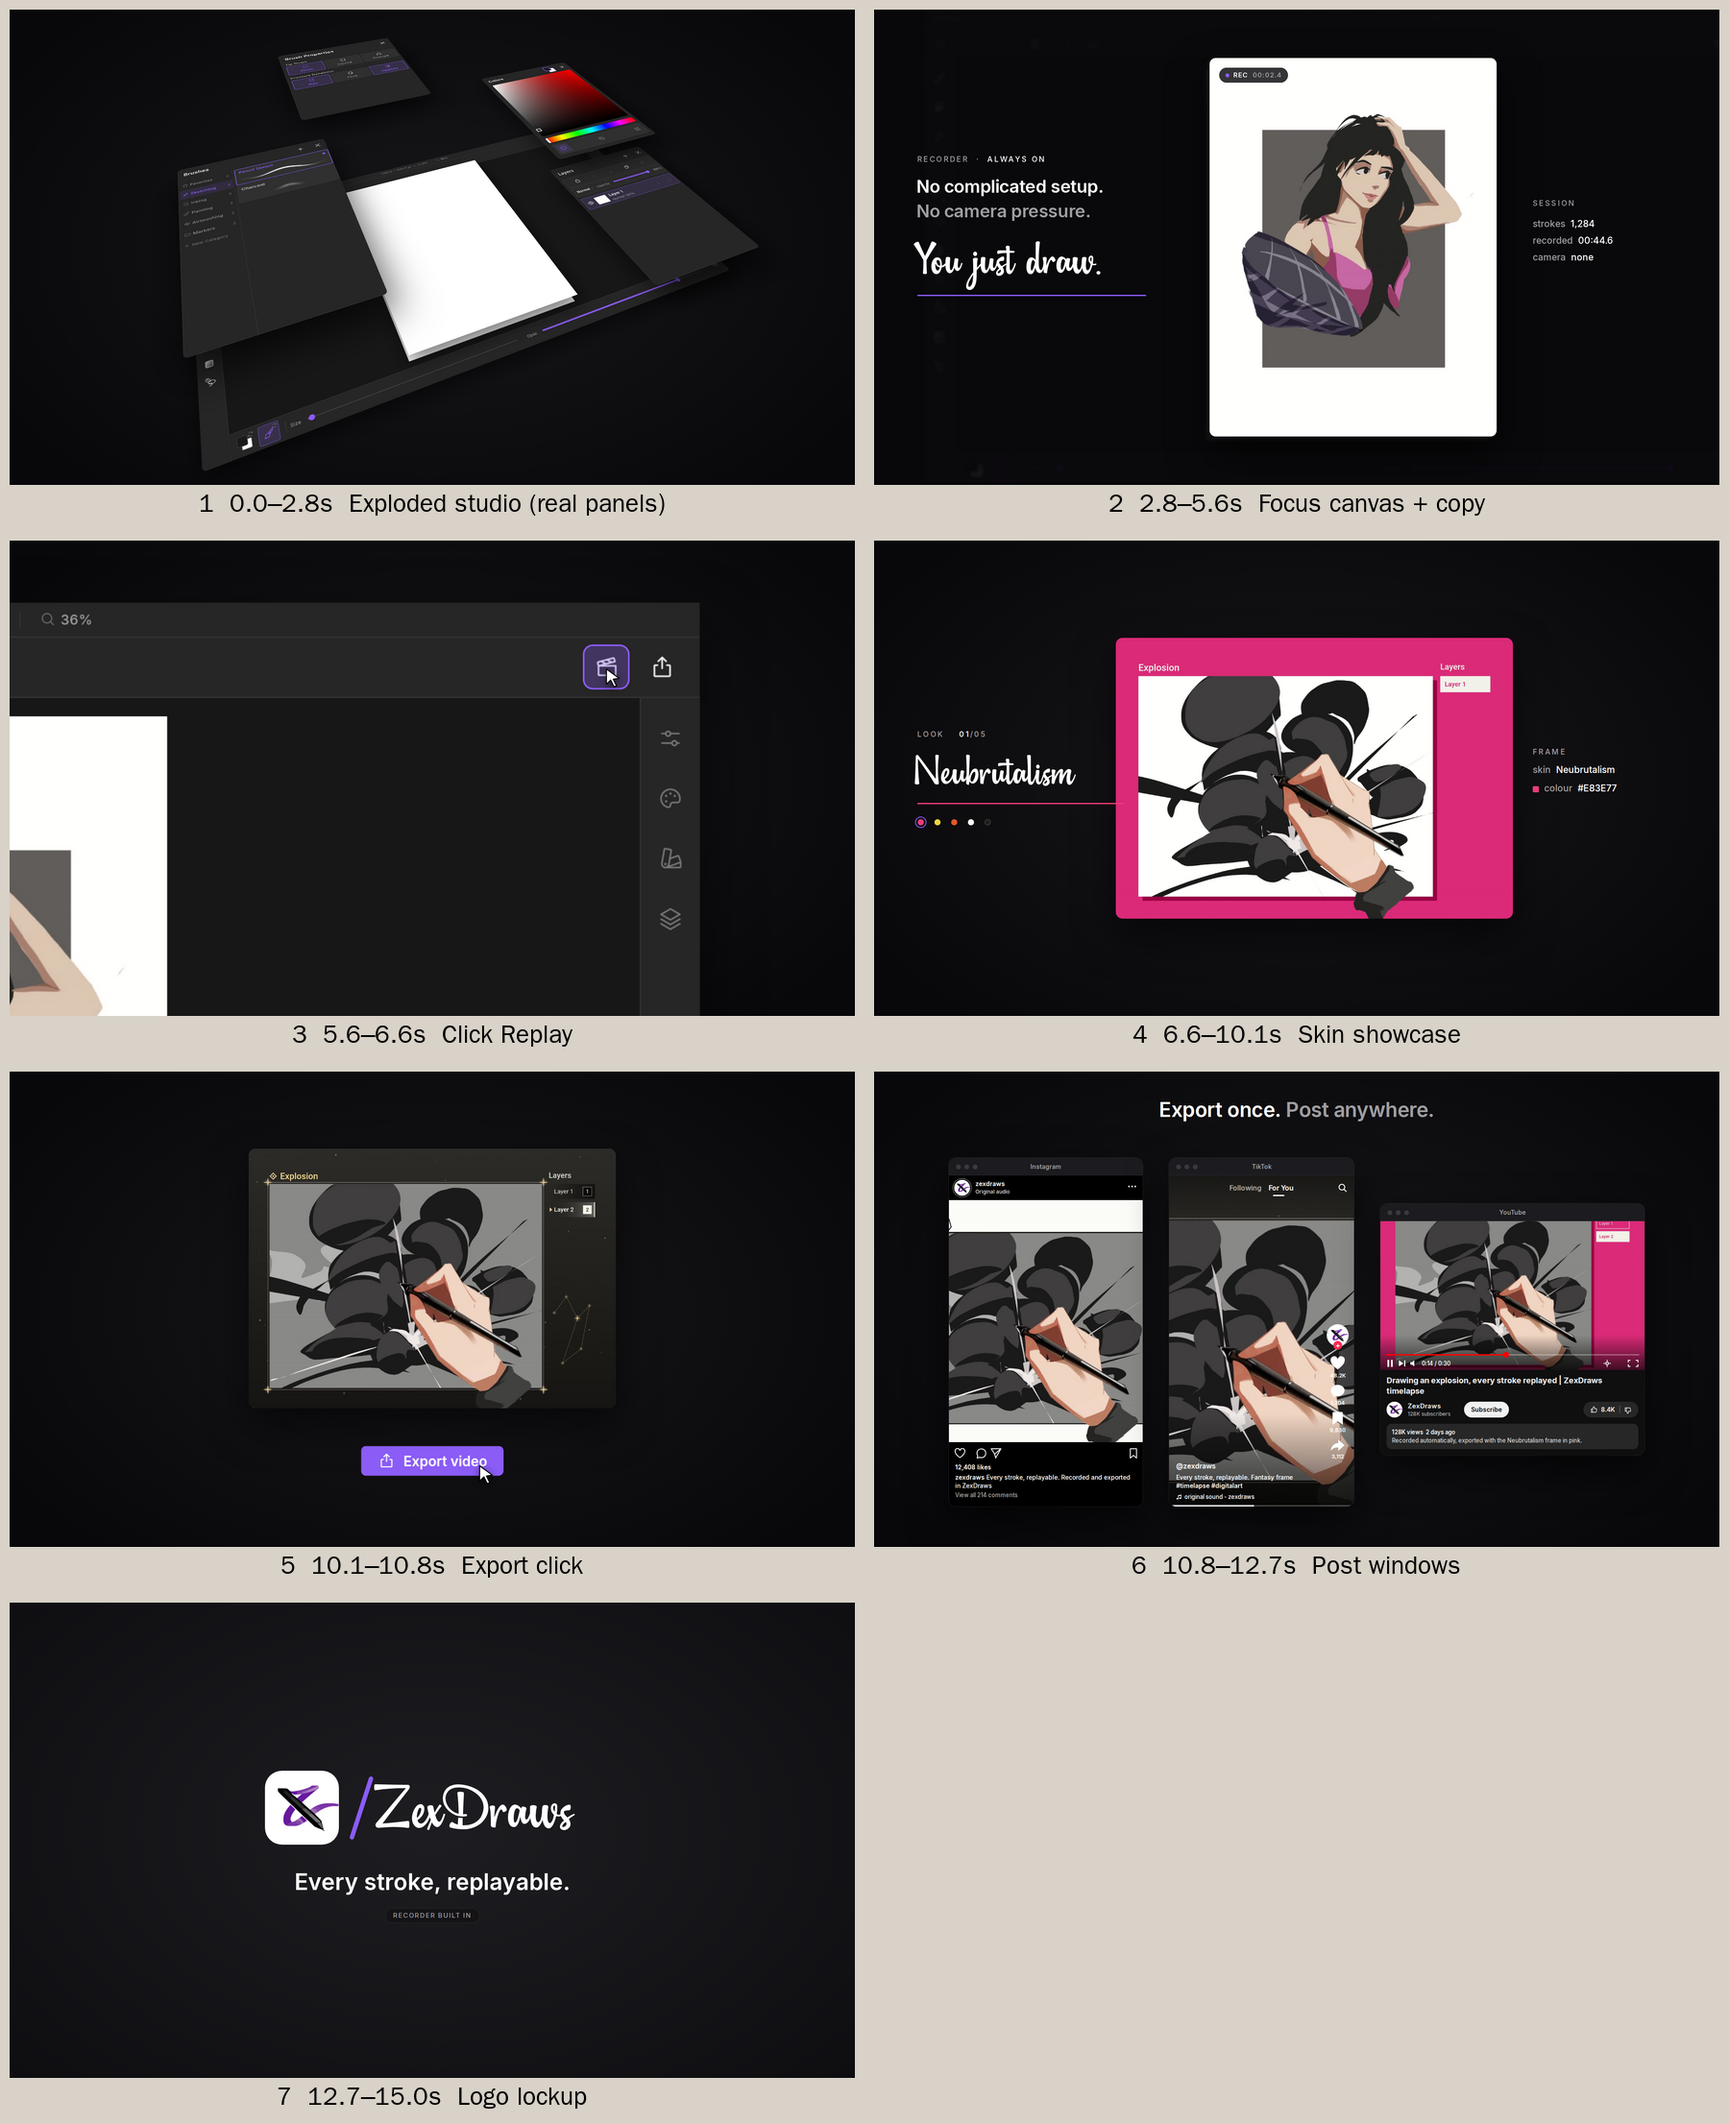
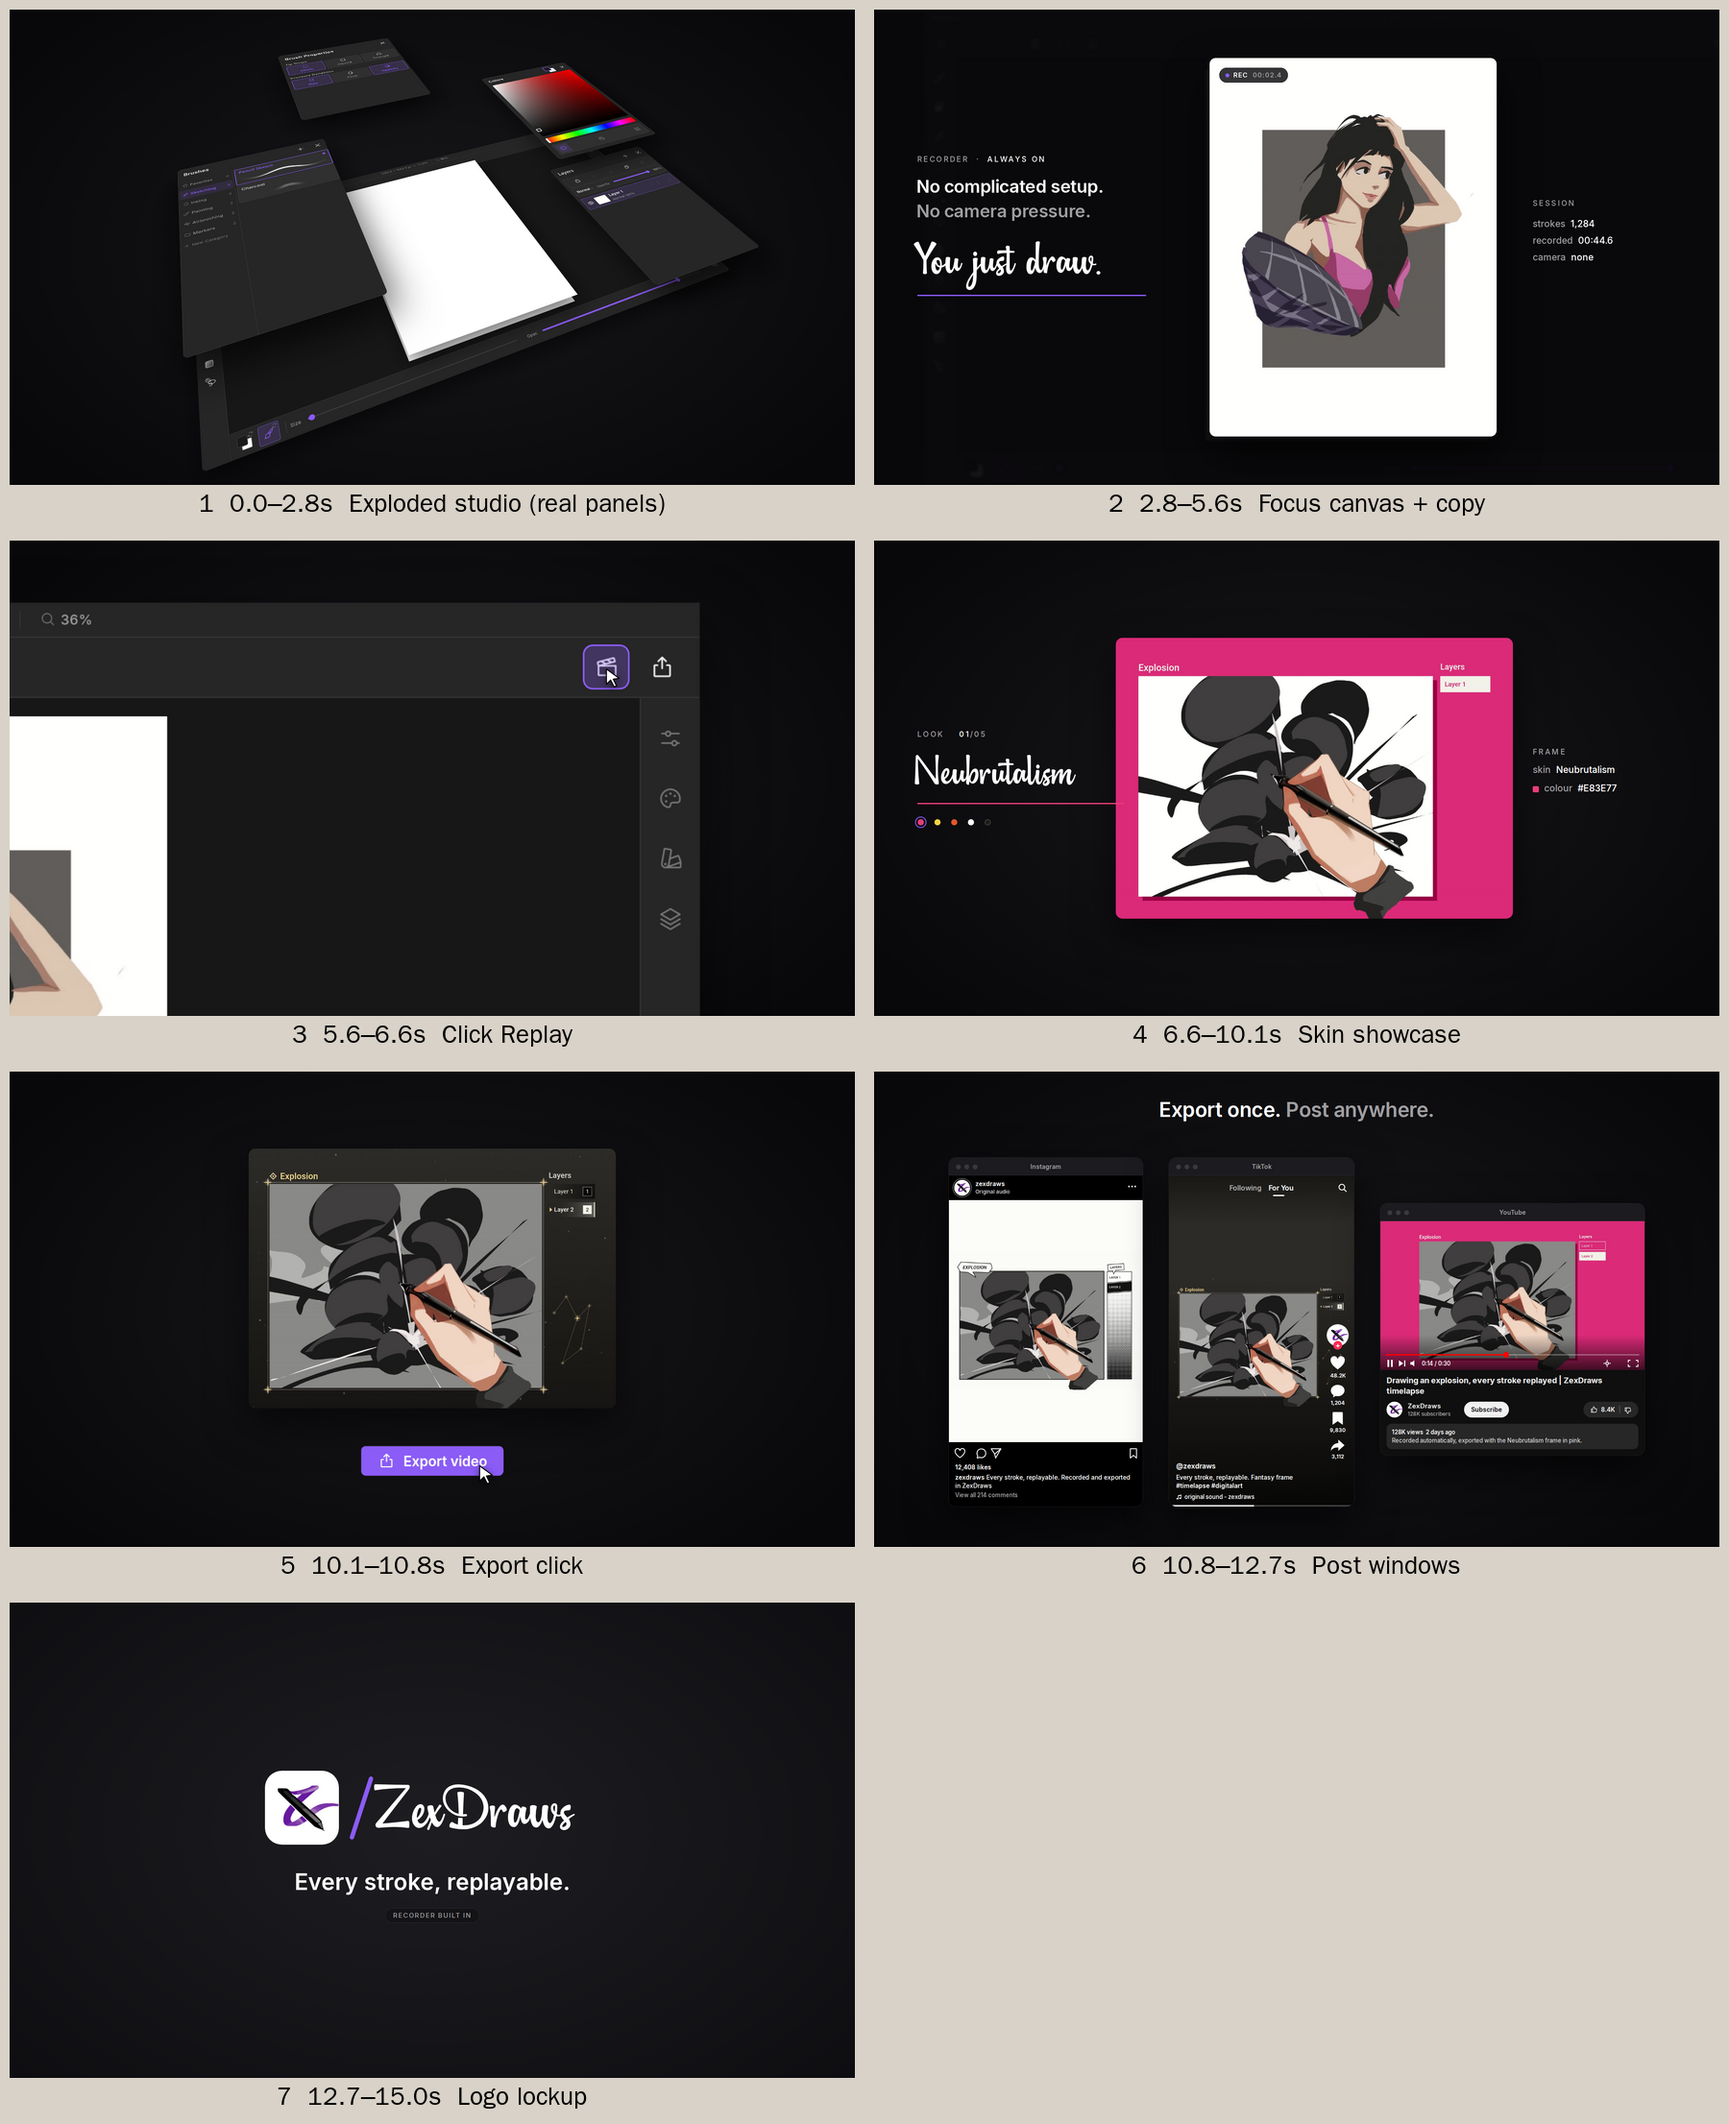
Storyboard: post templates show the whole video, frame padded to each platform shape
Claude-Session: https://claude.ai/code/session_01N6SAp883XGMwBKYGBCyKw5

Changed region(s): [[0.5289, 0.5615, 0.9333, 0.7175]]

diff --git a/docs/storyboard/storyboard.html b/docs/storyboard/storyboard.html
@@ -111,7 +111,7 @@ html,body { margin:0; background:var(--bg); }
       <span class="abs" style="left:60px;top:29px;font:500 12px Inter;color:#d6d6d6">Original audio</span>
       <svg class="abs" style="right:14px;top:22px" width="20" height="6" viewBox="0 0 20 6" fill="#fff"><circle cx="3" cy="3" r="2"/><circle cx="10" cy="3" r="2"/><circle cx="17" cy="3" r="2"/></svg>
     </div>
-    <div class="media" style="left:0;top:96px;width:440px;height:550px;background-image:url(../../build/frames/manga/690.jpg)"></div>
+    <div class="media" style="left:0;top:96px;width:440px;height:550px;background:url(../../build/frames/manga/690.jpg) center/contain no-repeat, #FCFDF8"></div>
     <div class="abs" style="left:0;top:646px;width:440px;height:146px;background:#000">
       <svg class="abs" style="left:12px;top:12px" width="420" height="26" viewBox="0 0 420 26" fill="none" stroke="#fff" stroke-width="2" stroke-linejoin="round" stroke-linecap="round">
         <path d="M13 23S2 16 2 9a5.5 5.5 0 0 1 11-2 5.5 5.5 0 0 1 11 2c0 7-11 14-11 14z"/>
@@ -128,7 +128,7 @@ html,body { margin:0; background:var(--bg); }
   <!-- TikTok: the replay box becomes this video -->
   <div class="win" style="left:670px;top:196px;width:420px;height:792px">
     <div class="tb"><i></i><i></i><i></i><span>TikTok</span></div>
-    <div class="media" style="left:0;top:40px;width:420px;height:752px;background-image:url(../../build/frames/fantasy/690.jpg)"></div>
+    <div class="media" style="left:0;top:40px;width:420px;height:752px;background:url(../../build/frames/fantasy/690.jpg) center/contain no-repeat, linear-gradient(#2C2B27 50%, #161513 50%)"></div>
     <div class="abs" style="left:0;top:40px;width:420px;height:110px;background:linear-gradient(rgba(0,0,0,.45),transparent)"></div>
     <div class="abs" style="left:0;top:582px;width:420px;height:210px;background:linear-gradient(transparent,rgba(0,0,0,.65))"></div>
     <div class="abs" style="left:0;width:420px;top:58px;text-align:center;font:600 16px Inter;color:rgba(255,255,255,.65)">Following&nbsp;&nbsp;&nbsp;&nbsp;<span style="color:#fff">For You</span></div>
@@ -153,7 +153,7 @@ html,body { margin:0; background:var(--bg); }
   <!-- YouTube -->
   <div class="win" style="left:1150px;top:300px;width:600px;height:572px;background:#0f0f0f">
     <div class="tb"><i></i><i></i><i></i><span>YouTube</span></div>
-    <div class="media" style="left:0;top:40px;width:600px;height:338px;background-image:url(../../build/frames/pink/690.jpg);background-position:center 75%"></div>
+    <div class="media" style="left:0;top:40px;width:600px;height:338px;background:url(../../build/frames/pink/690.jpg) center/contain no-repeat, #DB2A78"></div>
     <div class="abs" style="left:0;top:298px;width:600px;height:80px;background:linear-gradient(transparent,rgba(0,0,0,.7))"></div>
     <div class="abs" style="left:12px;top:342px;width:576px;height:3px;background:rgba(255,255,255,.3)"><div style="width:47%;height:3px;background:#f00"></div></div>
     <div class="abs" style="left:279px;top:337px;width:13px;height:13px;border-radius:7px;background:#f00"></div>

diff --git a/docs/shotlist-studio.md b/docs/shotlist-studio.md
@@ -12,7 +12,7 @@ Ends on the lockup (no loop back, no infinite card floor).
 | 3 | 12–14 | 5.6–6.6 | **Replay.** Copy lifts out. Camera pans to the top-right toolbar. Cursor glides to the clapper (Replay) button and clicks: purple pressed state. | Camera pan, cursor travel, button press dip | Swish, click on 13, drums drop for that beat |
 | 4 | 14–21.5 | 6.6–10.1 | **Skin showcase** (the switcher you liked). The page lifts off the studio and morphs into the replay box while the studio falls away. Left: Look 01/05, frame name, colour dots and ring. Right: skin and colour tokens. | Same as the previous film: Pink, Yellow, Orange, Manga, Fantasy, switching every 1.5 beats | Boom on 14, click per switch |
 | 5 | 21.5–23 | 10.1–10.8 | **Export.** HUD exits. The real "Export video" button (cropped from the app) pops in under the box. Cursor clicks it. | Button scales in with a tiny overshoot, then a press dip | Tick, click on 22.5 |
-| 6 | 23–27 | 10.8–12.7 | **Post templates as windows.** An Instagram post (4:5), a TikTok video (9:16, middle) and a YouTube watch page (16:9). Each sits in a window with the platform name in its title bar. Each follows its real layout: Instagram has the header, the like/comment/share/save row, likes and caption. TikTok has Following/For You, the right-hand icon column with counts, the handle, caption and sound line. YouTube has the player with progress bar and controls, the title, the channel row with Subscribe, the like pill and the description box. They play Manga, Fantasy and Pink. Heading: "Export once. Post anywhere." | The box morphs into the TikTok video. Instagram slides in from the left and YouTube from the right, staggered. The counts tick up. | Whoosh, two swishes |
+| 6 | 23–27 | 10.8–12.7 | **Post templates as windows.** An Instagram post (4:5), a TikTok video (9:16, middle) and a YouTube watch page (16:9). Each sits in a window with the platform name in its title bar. Each follows its real layout: Instagram has the header, the like/comment/share/save row, likes and caption. TikTok has Following/For You, the right-hand icon column with counts, the handle, caption and sound line. YouTube has the player with progress bar and controls, the title, the channel row with Subscribe, the like pill and the description box. Each shows the **whole** replay video, never cropped: the skin frame expands to the platform shape, padded with its own edge colour (Manga white, Fantasy dark, Pink pink). They play Manga, Fantasy and Pink. Heading: "Export once. Post anywhere." | The box morphs into the TikTok video. Instagram slides in from the left and YouTube from the right, staggered. The counts tick up. | Whoosh, two swishes |
 | 7 | 27–32 | 12.7–15.0 | **Lockup** (the logo animation you liked). All three cards converge to centre, the logo tile opens out of that point and moves left, the wordmark slides in, then the slash, tagline and "Recorder built in" pill. Holds to the end. | Same springs as the previous film, no exit | Crash on 27, drums out, music fades at 15 s |
 
 ## Notes / open choices
